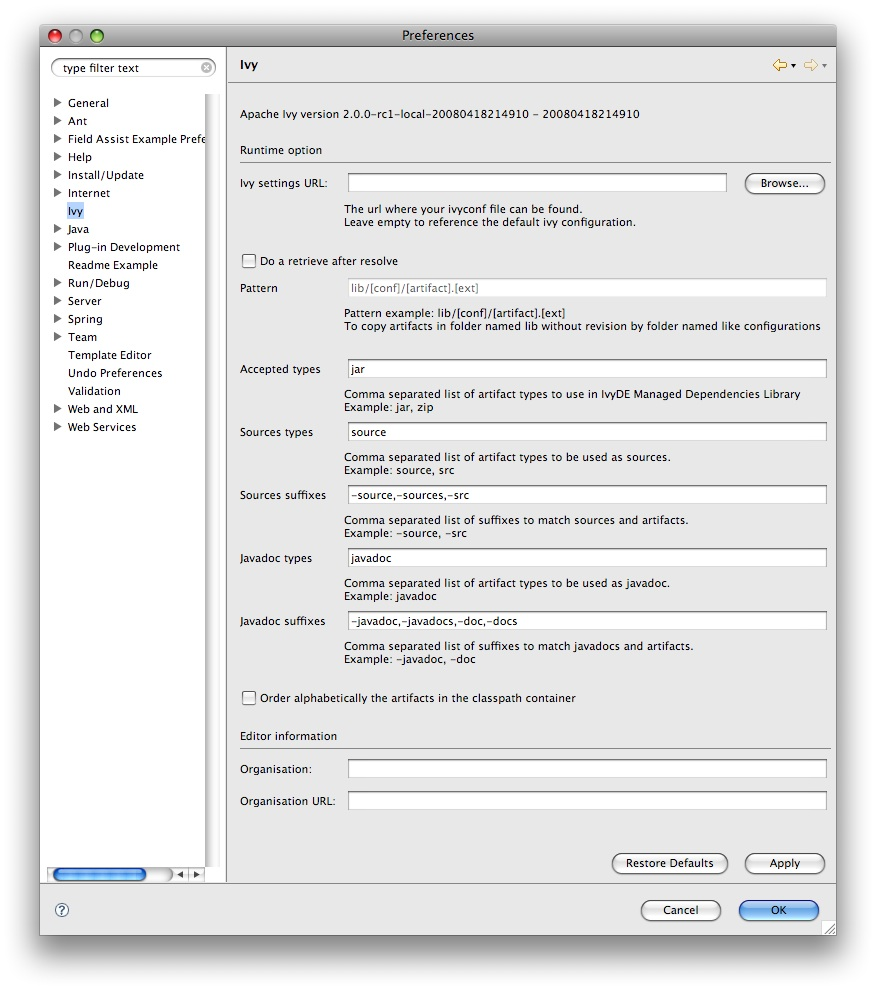
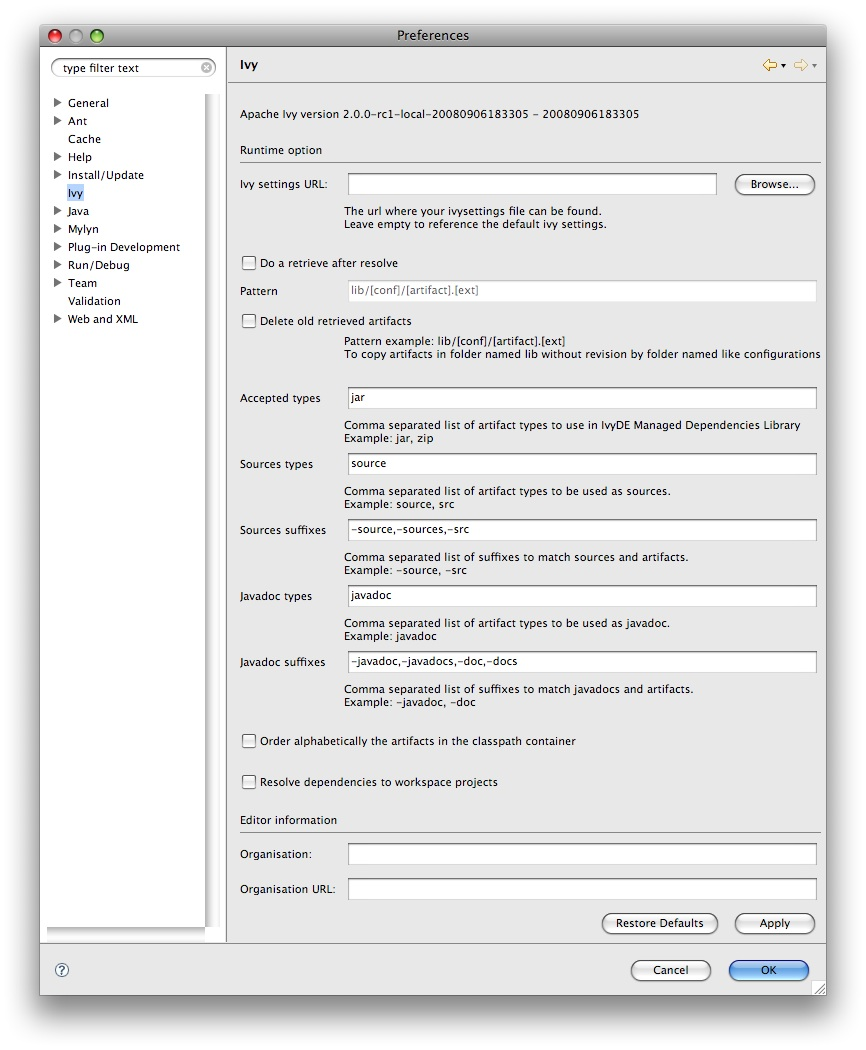
IVYDE-89 : add some little doc and warnings about the limited features of project dependencies
git-svn-id: http://svn.apache.org/repos/asf/ant@695269 13f79535-47bb-0310-9956-ffa450edef68

Changed region(s): [[0.0312, 0.0, 0.9665, 0.9394], [0.6859, 0.8485, 0.9665, 0.9394]]

diff --git a/ivy/ivyde/trunk/doc/index.html b/ivy/ivyde/trunk/doc/index.html
@@ -54,6 +54,8 @@ The global configuration can be found in the global configuration panel of Eclip
 	<li><u>Javadoc types:</u> same as sources types but for javadocs</li>
 	<li><u>Javadoc suffixes:</u> same as sources suffixes but for javadocs</li>
 	<li><u>Order alphabetically:</u> by default in the classpath container the entries are ordered by order of declaration. When there are many entries, it could be useful to have them ordered alphabetically so that you can find them faster.</li>
+	<li><u>Project dependencies:</u> IvyDE can try to make dependencies between project more than to jars into a repository.
+	    <u><i>Important note:</i></u> this feature is quite limited for now, it just tries to replace jar dependencies with project dependencies, based on the module id of the jar, and the projects configured to use IvyDE; the version is not taken into consideration, and even if a project match a dependency, the jar of the dependency have to be resolved from a repository.</li>
 	<li><u>Organisation:</u> your company name for ivy editor completion </li>
 	<li><u>Organisation URL:</u> your company web site url for ivy editor completion </li>
 </ol>
